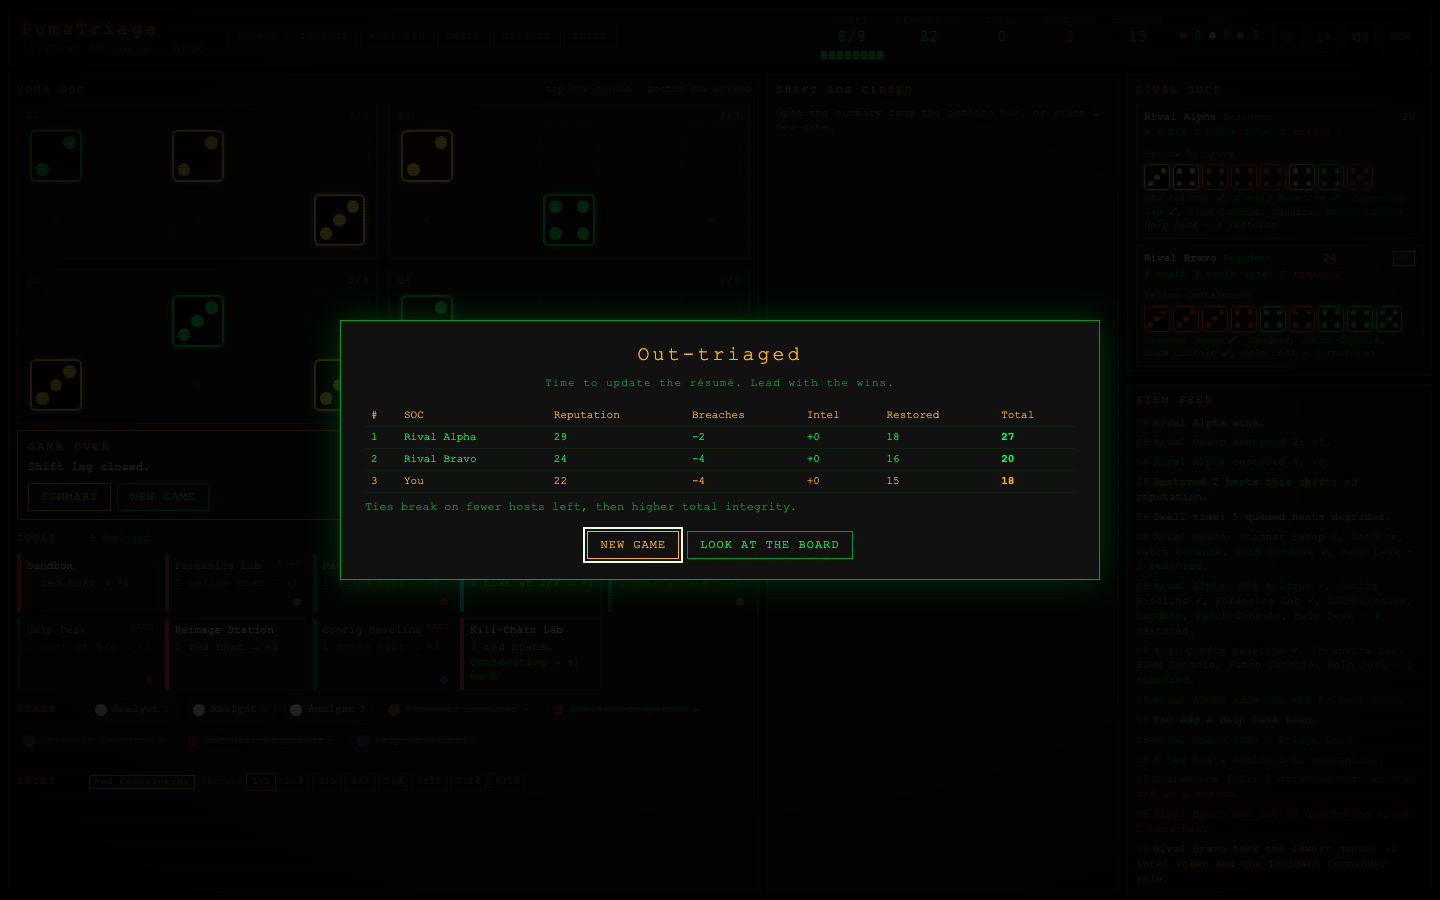
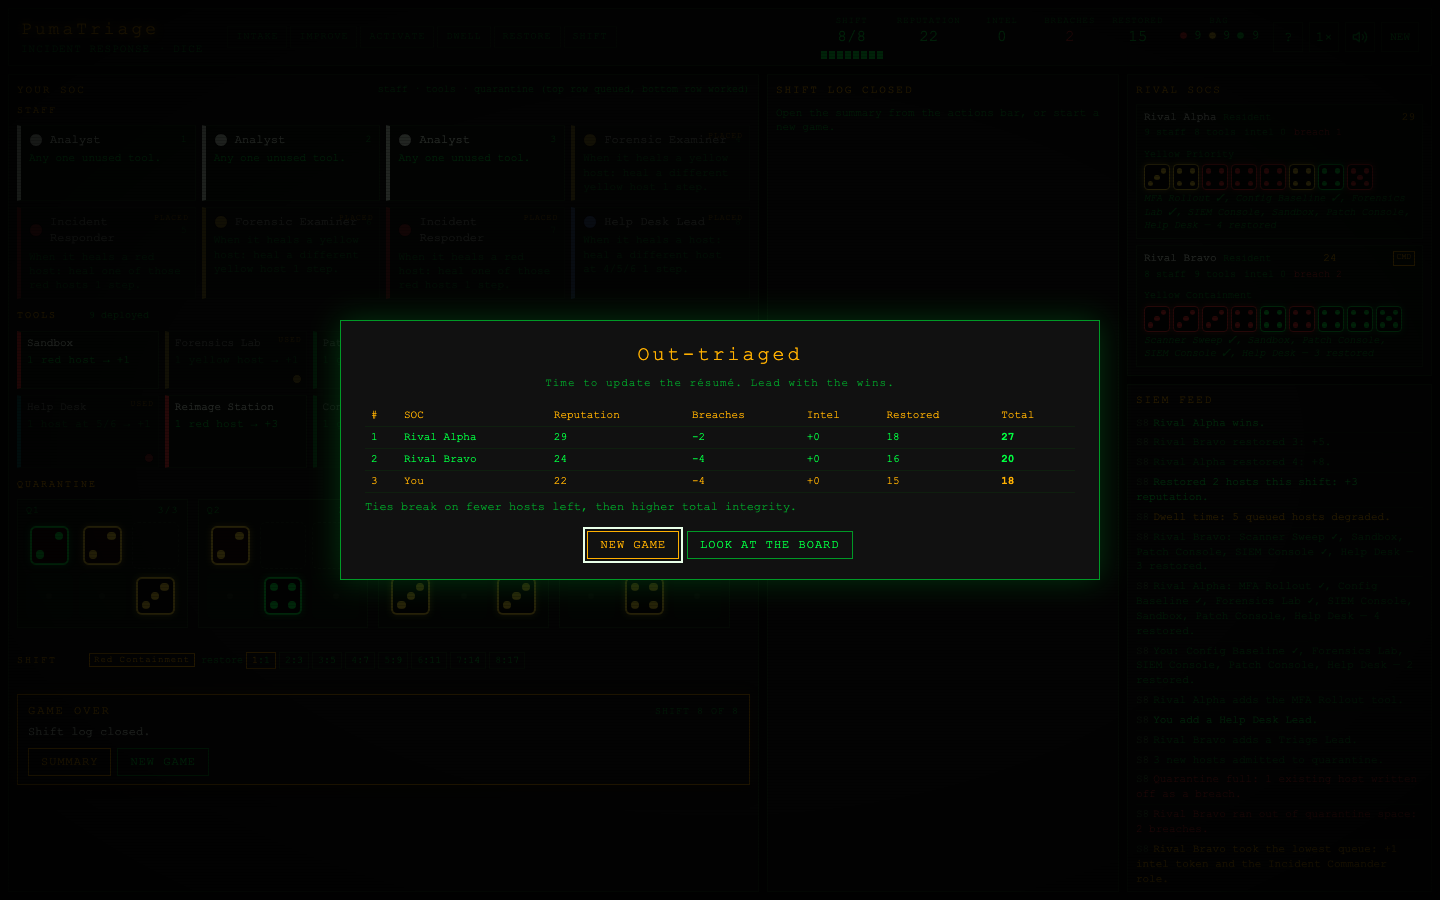
Staff on top as cards, tools in the middle, dice at the bottom
Matches the physical board and the placement order. Each staff member
is one card with its ability on it; the separate specialist cards are
gone, and the return-for-intel and Consultant picks use the staff
cards directly. The decision strip sits right under the dice.
Screenshots recaptured. Design context notes desktop-only.

diff --git a/index.html b/index.html
@@ -217,10 +217,8 @@ body::after {
 .board-row { display: flex; align-items: center; gap: 8px; flex-wrap: wrap; margin-bottom: 8px; }
 .board-row .lbl { font-size: 10px; letter-spacing: 2px; color: var(--amber); text-transform: uppercase; min-width: 64px; }
 
-#work { display: grid; grid-template-columns: minmax(170px, max-content) 1fr; gap: 12px; align-items: start; margin-bottom: 8px; }
-#staff { display: flex; flex-direction: column; gap: 6px; }
-#staff .lbl, #work .board-row { min-height: 18px; }
-#depts { display: grid; grid-template-columns: repeat(auto-fill, minmax(118px, 1fr)); gap: 6px; }
+#staff { display: grid; grid-template-columns: repeat(auto-fill, minmax(160px, 1fr)); gap: 6px; margin-bottom: 10px; }
+#depts { display: grid; grid-template-columns: repeat(auto-fill, minmax(118px, 1fr)); gap: 6px; margin-bottom: 10px; }
 .dept-tile {
   border: 1px solid var(--border); border-left: 4px solid var(--border); background: var(--panel-2);
   padding: 5px 6px; min-height: 58px; position: relative; cursor: default; transition: box-shadow .2s, border-color .2s;
@@ -245,18 +243,26 @@ body::after {
 .dept-tile .meep-on { position: absolute; right: 4px; bottom: 4px; }
 
 .meeple {
-  display: flex; align-items: center; gap: 8px; padding: 7px 10px; border: 1px solid var(--border);
-  background: var(--panel-2); border-radius: 6px; cursor: default; font-size: 12px; min-height: 40px; transition: box-shadow .2s;
+  display: flex; flex-direction: column; gap: 3px; padding: 6px 8px; border: 1px solid var(--border); border-left: 4px solid var(--border);
+  background: var(--panel-2); cursor: default; font-size: 12px; min-height: 52px; transition: box-shadow .2s, border-color .2s; position: relative;
 }
-.meeple .dot { width: 18px; height: 18px; border-radius: 50%; border: 1px solid #000; flex: none; }
+.meeple .mh { display: flex; align-items: center; gap: 7px; color: var(--white); }
+.meeple .dot { width: 14px; height: 14px; border-radius: 50%; border: 1px solid #000; flex: none; }
 .meeple .key { color: var(--text-dim); font-size: 10px; margin-left: auto; }
+.meeple .ab { font-size: 11px; color: var(--green-dim); line-height: 1.3; }
+.meeple.b-white { border-left-color: var(--white); } .meeple.b-red { border-left-color: var(--red); } .meeple.b-yellow { border-left-color: var(--yellow); }
+.meeple.b-green { border-left-color: var(--green); } .meeple.b-blue { border-left-color: var(--blue); }
+.meeple.used::after { content: "PLACED"; position: absolute; right: 6px; top: 5px; font-size: 8px; color: var(--amber); letter-spacing: 1px; }
+.meeple.off::after { content: "OUT SICK"; position: absolute; right: 6px; top: 5px; font-size: 8px; color: var(--red); letter-spacing: 1px; }
+.meeple.returnable { border-color: var(--amber); cursor: pointer; }
+.meeple.clickable { cursor: pointer; border-color: var(--green-dark); }
 .dot.c-white  { background: var(--white); } .dot.c-red { background: var(--red); }
 .dot.c-yellow { background: var(--yellow); } .dot.c-green { background: var(--green); } .dot.c-blue { background: var(--blue); }
-.meeple.avail { cursor: pointer; border-color: var(--green-dark); }
-.meeple.avail:hover { box-shadow: 0 0 8px rgba(0,255,65,0.4); }
+.meeple.avail { cursor: pointer; border-color: var(--green-dark); box-shadow: 0 0 6px rgba(0,255,65,0.2); }
+.meeple.avail:hover { box-shadow: 0 0 10px rgba(0,255,65,0.45); border-color: var(--green); }
 .meeple.sel { border-color: var(--amber); box-shadow: 0 0 10px rgba(255,176,0,0.6); }
-.meeple.used { opacity: 0.4; text-decoration: line-through; }
-.meeple.off { opacity: 0.4; border-style: dashed; }
+.meeple.used { opacity: 0.45; }
+.meeple.off { opacity: 0.45; border-style: dashed; }
 .mini-dot { display: inline-block; width: 10px; height: 10px; border-radius: 50%; border: 1px solid #000; }
 
 #specs { display: flex; flex-wrap: wrap; gap: 6px; margin-bottom: 8px; }
@@ -469,9 +475,7 @@ details.addons summary::-webkit-details-marker { display: none; }
   }
   #board, #center { overflow: visible; }
   #strip { bottom: 0; }
-  #work { grid-template-columns: 1fr; }
-  #staff { flex-direction: row; flex-wrap: wrap; }
-  #staff .lbl { width: 100%; }
+  .h3-note { display: none; }
   #phase-strip { margin-left: 0; width: 100%; flex-wrap: wrap; }
 }
 </style>
@@ -1845,8 +1849,10 @@ function onCollectPass() { if (!inPhase("final", "collections")) return; applyPa
 
 // ---- activation FSM ----
 function onMeepleClick(uid) {
+  if (inPhase("activate", "consultant")) { const m0 = meepleOf(human(), uid); const sp0 = m0 && m0.kind === "spec" ? specOf(human(), m0.specUid) : null; if (sp0 && sp0.type !== "consultant") onConsultantPick(sp0.uid); return; }
   if (!inPhase("activate", "human")) return;
   const p = human(), m = meepleOf(p, uid), s = UI.sel;
+  if (s.state === "returning") { if (m && m.kind === "spec") applyReturnNow("spec", m.specUid); return; }
   if (!m || m.used || m.off) return;
   if (["spec", "choice", "colour", "intelColour", "admReturn"].includes(s.state)) return;
   if (s.meepleUid === uid && s.state === "meepleSel") resetSel();
@@ -2618,44 +2624,39 @@ function renderSpecCard(type, cls, attrs) {
   return `<div class="spec-card tag-${def.colour} ${cls || ""}" ${attrs || ""}><div class="sn"><span class="mini-dot c-${def.colour} dot"></span> ${esc(def.name)}</div><div class="sd">${esc(specDesc(def))}</div></div>`;
 }
 function renderMeeple(p, m, key) {
-  const s = UI.sel, cls = [];
+  const s = UI.sel, cls = ["b-" + m.colour];
   const live = G.phase === "activate" && G.step === "human";
+  const returning = live && s.state === "returning";
+  const consult = G.phase === "activate" && G.step === "consultant";
+  const spec = m.kind === "spec" ? specOf(p, m.specUid) : null;
+  const def = spec ? SPEC_DEFS[spec.type] : null;
   if (m.used) cls.push("used");
   if (m.off) cls.push("off");
-  if (live && !m.used && !m.off) cls.push("avail");
-  if (s.meepleUid === m.uid && live) cls.push("sel");
-  const label = meepleLabel(p, m) + (m.used ? " (placed)" : m.off ? " (out sick)" : "");
-  return `<div class="meeple ${cls.join(" ")}" data-act="meeple" data-uid="${m.uid}" role="button" tabindex="0" aria-label="${esc(label)}" aria-pressed="${s.meepleUid === m.uid}"><span class="dot c-${m.colour}"></span><span>${esc(meepleLabel(p, m))}</span>${key ? `<span class="key">${key}</span>` : ""}</div>`;
+  if (live && !returning && !m.used && !m.off) cls.push("avail");
+  if (s.meepleUid === m.uid && live && !returning) cls.push("sel");
+  if (returning && spec) cls.push("returnable");
+  if (consult && spec && spec.type !== "consultant") cls.push("clickable");
+  if (consult && spec && p.consultantCopy === spec.type && spec.type !== "consultant") cls.push("sel");
+  let ability = "Any one unused tool.";
+  if (def) {
+    ability = specDesc(def);
+    if (def.special === "copy" && p.consultantCopy) ability = `Shadowing the ${SPEC_DEFS[p.consultantCopy].name}: ${specDesc(SPEC_DEFS[p.consultantCopy])}`;
+  }
+  const label = meepleLabel(p, m) + (m.used ? " (placed)" : m.off ? " (out sick)" : "") + ". " + ability;
+  return `<div class="meeple ${cls.join(" ")}" data-act="meeple" data-uid="${m.uid}" role="button" tabindex="0" aria-label="${esc(label)}" aria-pressed="${s.meepleUid === m.uid}" title="${esc(ability)}"><div class="mh"><span class="dot c-${m.colour}"></span><span>${esc(meepleLabel(p, m))}</span>${key ? `<span class="key">${key}</span>` : ""}</div><div class="ab">${esc(ability)}</div></div>`;
 }
-
 function renderBoard() {
   const p = human(), el = document.getElementById("board"), s = UI.sel;
   const live = G.phase === "activate" && G.step === "human";
   const returning = (G.phase === "improve" && G.step === "return" && !UI.animating) || (live && s.state === "returning");
   const intake = G.phase === "intake" && G.step === "place";
   const consult = G.phase === "activate" && G.step === "consultant";
-  let html = `<h3>Your SOC${!G.cfg.solo && G.firstPlayer === 0 ? ' <span class="badge">Incident Commander</span>' : ""}<span class="h3-note">top row queued · bottom row worked</span></h3>`;
-  html += '<div id="wards">';
-  p.wards.forEach((w, wi) => {
-    const n = w.filter(b => b.u || b.t).length;
-    html += `<div class="ward" aria-label="Quarantine segment ${wi + 1}"><div class="ward-h"><span>Q${wi + 1}</span><span>${n}/${BEDS}</span></div><div class="beds">`;
-    for (const b of w) {
-      html += '<div class="bed">';
-      for (const k of ["u", "t"]) {
-        const d = b[k];
-        const x = d ? dieState(d.uid) : null;
-        html += `<div class="slot ${k}${d ? "" : " empty"}${!d && k === "u" && intake ? " open" : ""}" aria-label="${k === "u" ? "Queued" : "Worked"} slot${d ? "" : ", empty"}">${d ? renderDie(d, { cls: x.cls, act: x.act }) : ""}</div>`;
-      }
-      html += '</div>';
-    }
-    html += '</div></div>';
-  });
-  html += '</div>';
-  let staff = '<div id="staff"><span class="lbl">Staff</span>';
+  let html = `<h3>Your SOC${!G.cfg.solo && G.firstPlayer === 0 ? ' <span class="badge">Incident Commander</span>' : ""}<span class="h3-note">staff · tools · quarantine (top row queued, bottom row worked)</span></h3>`;
+  html += '<div class="board-row"><span class="lbl">Staff</span></div><div id="staff">';
   let key = 0;
-  for (const m of p.meeples) staff += renderMeeple(p, m, m.off ? null : ++key);
-  staff += '</div>';
-  html += `<div id="work">${staff}<div><div class="board-row"><span class="lbl">Tools</span><span class="stack-info">${p.departments.length} deployed</span></div><div id="depts">`;
+  for (const m of p.meeples) html += renderMeeple(p, m, m.off ? null : ++key);
+  html += '</div>';
+  html += `<div class="board-row"><span class="lbl">Tools</span><span class="stack-info">${p.departments.length} deployed</span></div><div id="depts">`;
   for (const d of p.departments) {
     const cls = [];
     const def = DEPT_DEFS[d.type];
@@ -2673,18 +2674,23 @@ function renderBoard() {
     const clickable = cls.includes("can") || cls.includes("returnable");
     html += `<div class="dept-tile tag-${def.tag} ${cls.join(" ")}" data-act="dept" data-uid="${d.uid}" role="button" tabindex="0" aria-disabled="${!clickable}" title="${esc(why)}"><div><div class="dn">${esc(def.name)}</div><div class="dr">${esc(deptRule(def))}</div></div>${inner}</div>`;
   }
-  html += '</div></div></div>';
-  if (p.specialists.length && (returning || consult)) {
-    html += `<div class="board-row"><span class="lbl">Specialists</span><span class="stack-info">${returning ? "click one to return it for an intel token" : "click one for the Consultant to shadow"}</span></div><div id="specs">`;
-    for (const sp of p.specialists) {
-      const cls = [];
-      if (returning) cls.push("returnable");
-      if (consult && sp.type !== "consultant") cls.push("clickable");
-      if (p.consultantCopy === sp.type && sp.type !== "consultant") cls.push("sel");
-      html += renderSpecCard(sp.type, cls.join(" "), `data-act="spec" data-uid="${sp.uid}" role="button" tabindex="0"`);
+  html += '</div>';
+  html += '<div class="board-row"><span class="lbl">Quarantine</span></div><div id="wards">';
+  p.wards.forEach((w, wi) => {
+    const n = w.filter(b => b.u || b.t).length;
+    html += `<div class="ward" aria-label="Quarantine segment ${wi + 1}"><div class="ward-h"><span>Q${wi + 1}</span><span>${n}/${BEDS}</span></div><div class="beds">`;
+    for (const b of w) {
+      html += '<div class="bed">';
+      for (const k of ["u", "t"]) {
+        const d = b[k];
+        const x = d ? dieState(d.uid) : null;
+        html += `<div class="slot ${k}${d ? "" : " empty"}${!d && k === "u" && intake ? " open" : ""}" aria-label="${k === "u" ? "Queued" : "Worked"} slot${d ? "" : ", empty"}">${d ? renderDie(d, { cls: x.cls, act: x.act }) : ""}</div>`;
+      }
+      html += '</div>';
     }
-    html += '</div>';
-  }
+    html += '</div></div>';
+  });
+  html += '</div>';
   const n = p.dischargedThisRound.length;
   html += '<div class="board-row"><span class="lbl">Shift</span><div id="tray">';
   if (p.admin) html += `<span class="badge" title="${esc(adminDesc(p.admin))}">${esc(ADMIN_DEFS[p.admin].name)}</span>`;

diff --git a/.impeccable.md b/.impeccable.md
@@ -13,6 +13,8 @@ Dry, practitioner, unhurried. greykit.com describes itself as "security-themed g
 - **No real-hospital visuals.** No crosses, beds, scrubs or medical iconography. Wards are quarantine segments, patients are hosts, nurses are analysts.
 - **Dice colours are just colours** (red / yellow / green), exactly as in the source game. Colour-blind accommodation is explicitly not a priority for this game, since the original is colour-only too.
 - **Single file, offline, no dependencies** is a constraint the design must respect: no web fonts, no images, CSS-drawn dice.
+- **Desktop only.** This is not a mobile game; the stacked phone layout merely has to not break. Judge and design at 1280–1600px.
+- **Board order follows the physical board:** staff (one card per person, ability on the card) on top, tools in the middle, quarantine dice at the bottom, with the decision strip directly under the dice.
 
 ### Design Principles
 1. **The table comes first.** Dice, quarantine segments and tools should read like a board-game table at a glance; chrome, panels and log recede behind them.
